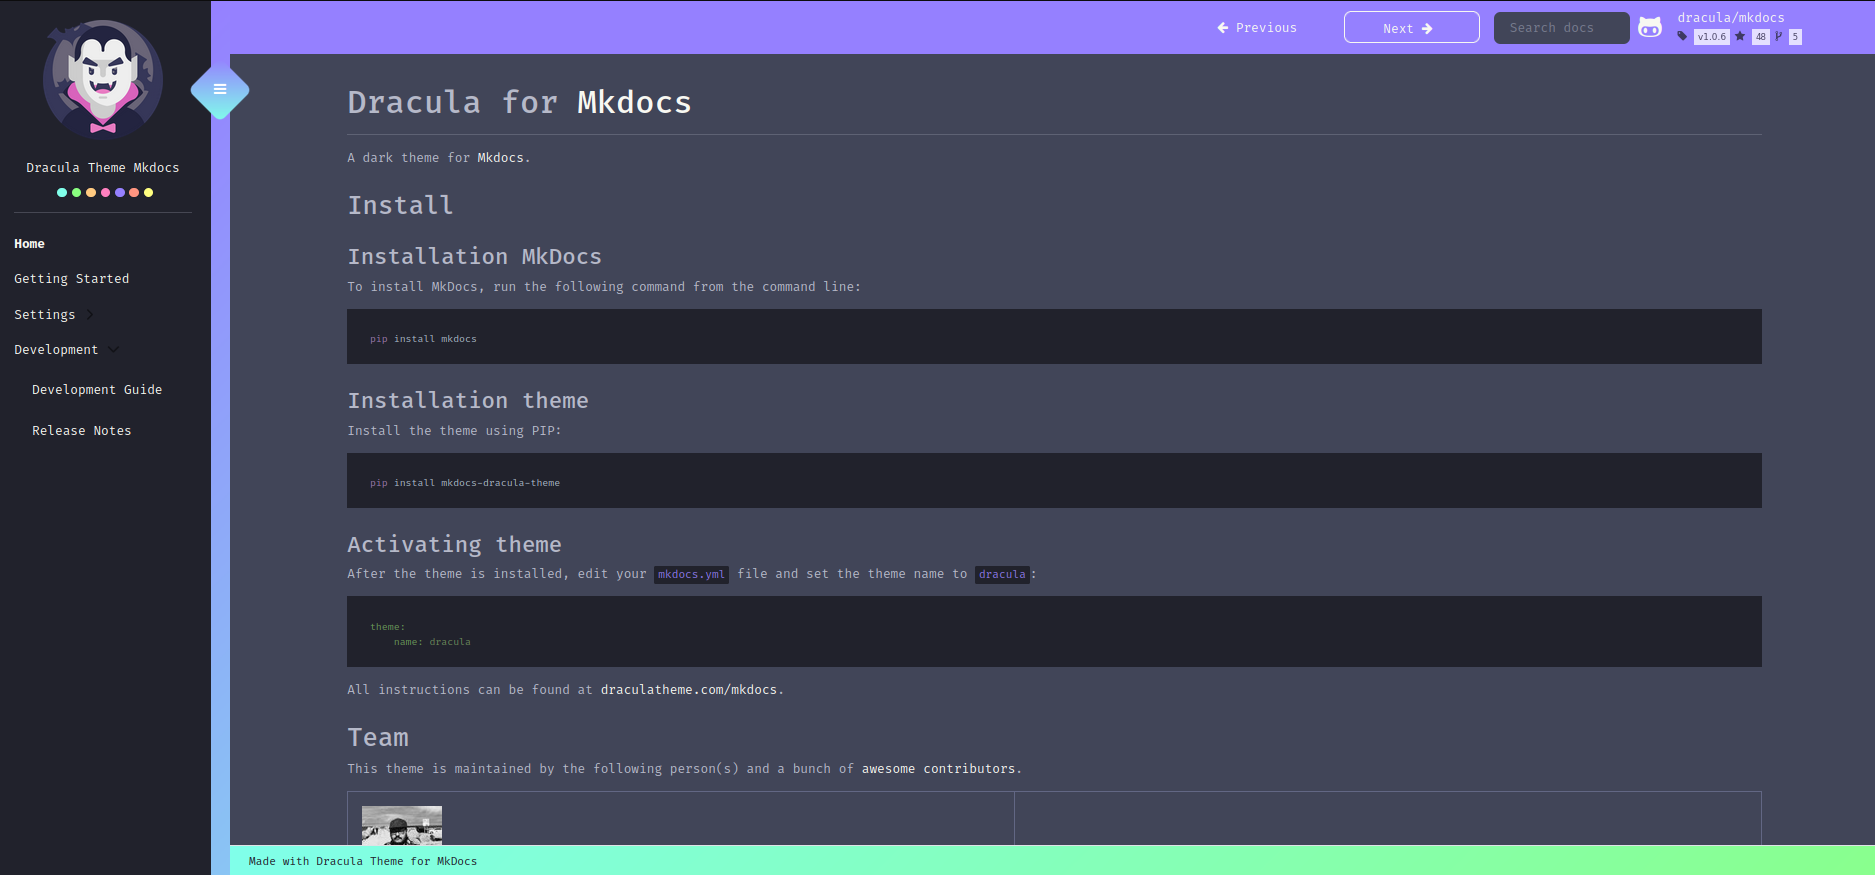
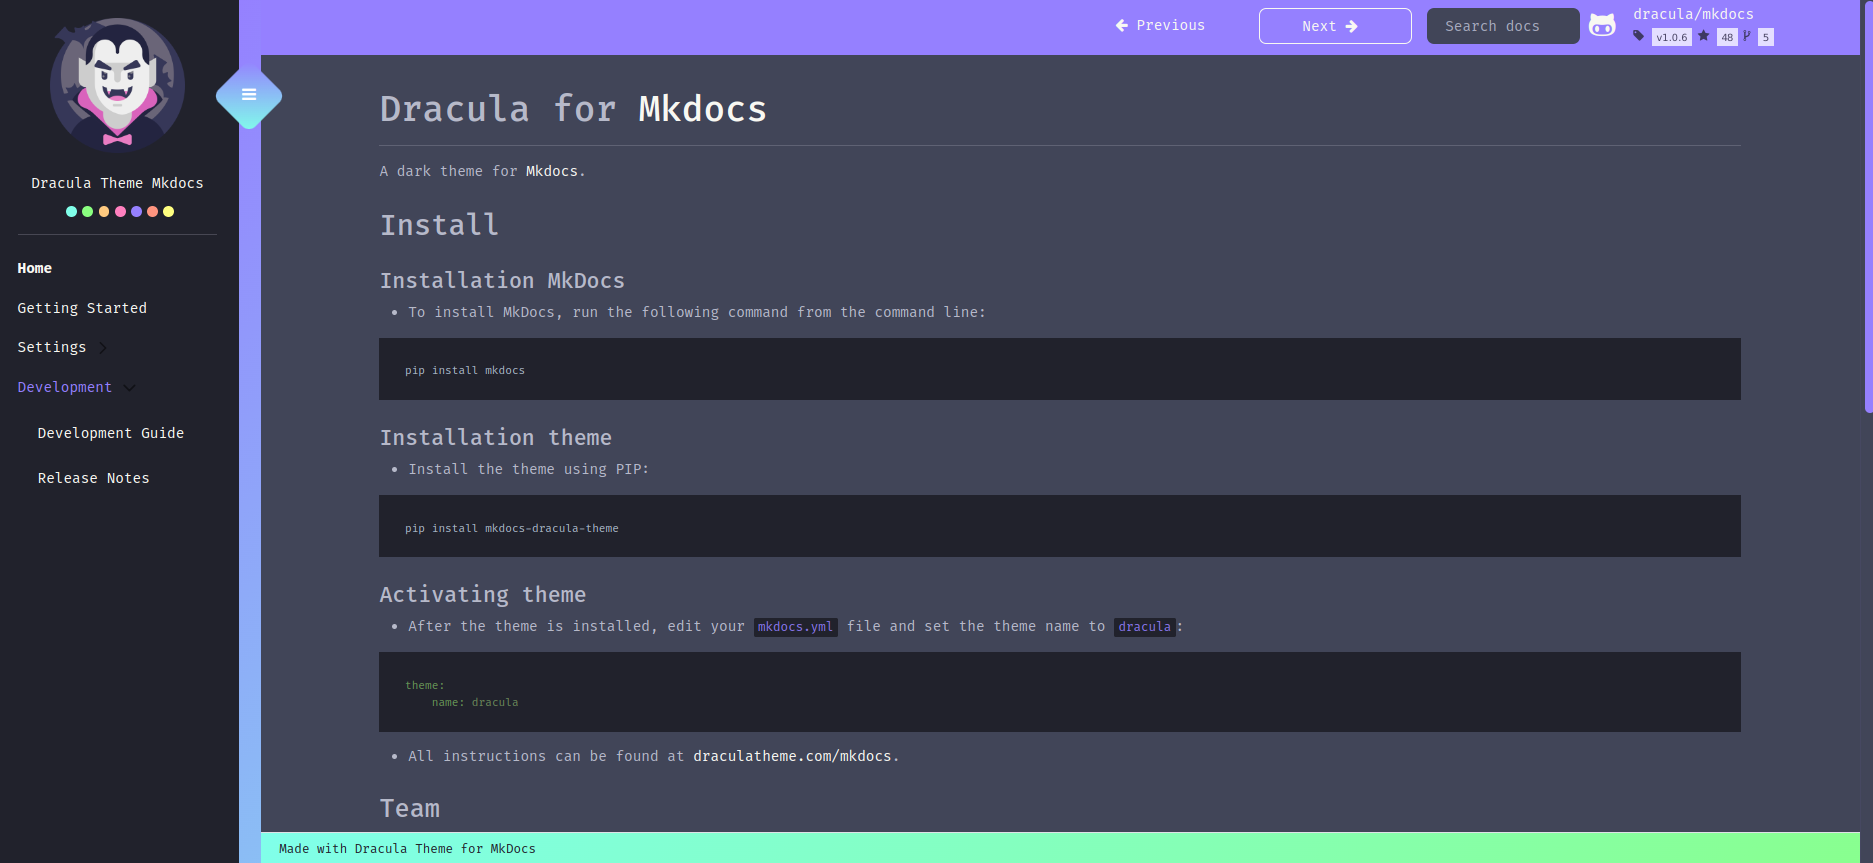
📘 DOCS: Update

diff --git a/docs/index.md b/docs/index.md
@@ -6,38 +6,38 @@
 
 ## Install
 
-### Installation MkDocs
+#### Installation MkDocs
 
-To install MkDocs, run the following command from the command line:
+- To install MkDocs, run the following command from the command line:
 
-```
+```bash
 pip install mkdocs
 ```
 
-### Installation theme
+#### Installation theme
 
-Install the theme using PIP:
+- Install the theme using PIP:
 
-```
+```bash
 pip install mkdocs-dracula-theme
 ```
 
-### Activating theme
+#### Activating theme
 
-After the theme is installed, edit your `mkdocs.yml` file and set the theme name to `dracula`:
+- After the theme is installed, edit your `mkdocs.yml` file and set the theme name to `dracula`:
 
 ```yml
 theme:
     name: dracula
 ```
 
-All instructions can be found at [draculatheme.com/mkdocs](https://draculatheme.com/mkdocs).
+- All instructions can be found at [draculatheme.com/mkdocs](https://draculatheme.com/mkdocs).
 
-## Team
+### Team
 
 This theme is maintained by the following person(s) and a bunch of [awesome contributors](https://github.com/dracula/mkdocs/graphs/contributors).
 
-| [![Fernando Celmer](https://github.com/FernandoCelmer.png?size=100)](https://github.com/FernandoCelmer) |                                               |
+| [![Fernando Celmer](https://github.com/FernandoCelmer.png?size=100)](https://github.com/FernandoCelmer) | [![Lautaro Linquimán](https://github.com/Ymil.png?size=100)](https://github.com/Ymil) |
 | ------------------------------------------------------------------------------------------------------- | --------------------------------------------- |
 | [Fernando Celmer](https://github.com/FernandoCelmer)                                                    | [Lautaro Linquimán](https://github.com/Ymil)  |
 

diff --git a/README.md b/README.md
@@ -37,7 +37,7 @@ All instructions can be found at [draculatheme.com/mkdocs](https://draculatheme.
 
 This theme is maintained by the following person(s) and a bunch of [awesome contributors](https://github.com/dracula/mkdocs/graphs/contributors).
 
-| [![Fernando Celmer](https://github.com/FernandoCelmer.png?size=100)](https://github.com/FernandoCelmer) |                                               |
+| [![Fernando Celmer](https://github.com/FernandoCelmer.png?size=100)](https://github.com/FernandoCelmer) | [![Lautaro Linquimán](https://github.com/Ymil.png?size=100)](https://github.com/Ymil) |
 | ------------------------------------------------------------------------------------------------------- | --------------------------------------------- |
 | [Fernando Celmer](https://github.com/FernandoCelmer)                                                    | [Lautaro Linquimán](https://github.com/Ymil)  |
 

diff --git a/docs/nav/development/development-guide.md b/docs/nav/development/development-guide.md
@@ -1,5 +1,54 @@
 # Development Guide
 
+## How to test the local package?
+
+#### Virtual environment
+
+- Create your virtual environment.
+
+```bash
+python -m venv venv
+```
+
+- Activate the virtual environment.
+
+```bash
+source venv/bin/activate
+```
+
+- Install the requirements.
+
+```bash
+pip install -r requirements.txt --no-cache-dir
+```
+
+#### Development
+
+- Make your changes as desired in the `./mkdocs_dracula_theme` folder. You can enjoy and change whatever you want, please have fun.
+
+```bash
+ls mkdocs_dracula_theme
+```
+
+#### Build and Install
+
+- Run the script that creates and installs the local package.
+
+
+```bash
+python scripts/install_local.py
+```
+
+#### Test
+
+- Run the following command to run the server.
+
+```bash
+mkdocs serve
+```
+
+Now you can access the [http://127.0.0.1:8000/](http://127.0.0.1:8000/)
+
 ---
 
 ## Commit Style

diff --git a/docs/nav/getting-started.md b/docs/nav/getting-started.md
@@ -2,21 +2,29 @@
 
 ---
 
-**Installation MkDocs**
+#### Installation MkDocs
 
 - To install MkDocs, run the following command from the command line:
 
-        pip install mkdocs
+```bash
+pip install mkdocs
+```
 
-**Installation theme**
+#### Installation theme
 
 - Install the theme using PIP:
 
-        pip install mkdocs-dracula-theme
+```bash
+pip install mkdocs-dracula-theme
+```
 
-**Activating theme**
+#### Activating theme
 
 - After the theme is installed, edit your `mkdocs.yml` file and set the theme name to `dracula`:
 
-        theme:
-            name: dracula
+```yml
+theme:
+    name: dracula
+```
+
+- All instructions can be found at [draculatheme.com/mkdocs](https://draculatheme.com/mkdocs).

diff --git a/docs/nav/development/release-notes.md b/docs/nav/development/release-notes.md
@@ -4,7 +4,7 @@
 
 ## v1.0.7
 
-- [📦 PyPI: Build 1.0.7](https://github.com/dracula/mkdocs/releases/tag/v1.0.7) `2024-01-15`
+- [📦 PyPI: Build 1.0.7](https://github.com/dracula/mkdocs/releases/tag/v1.0.7) `2024-01-17`
 - [📌 ISSUE-13: No syntax highlighting in code blocks](https://github.com/dracula/mkdocs/issues/13)
 
 ## v1.0.6
